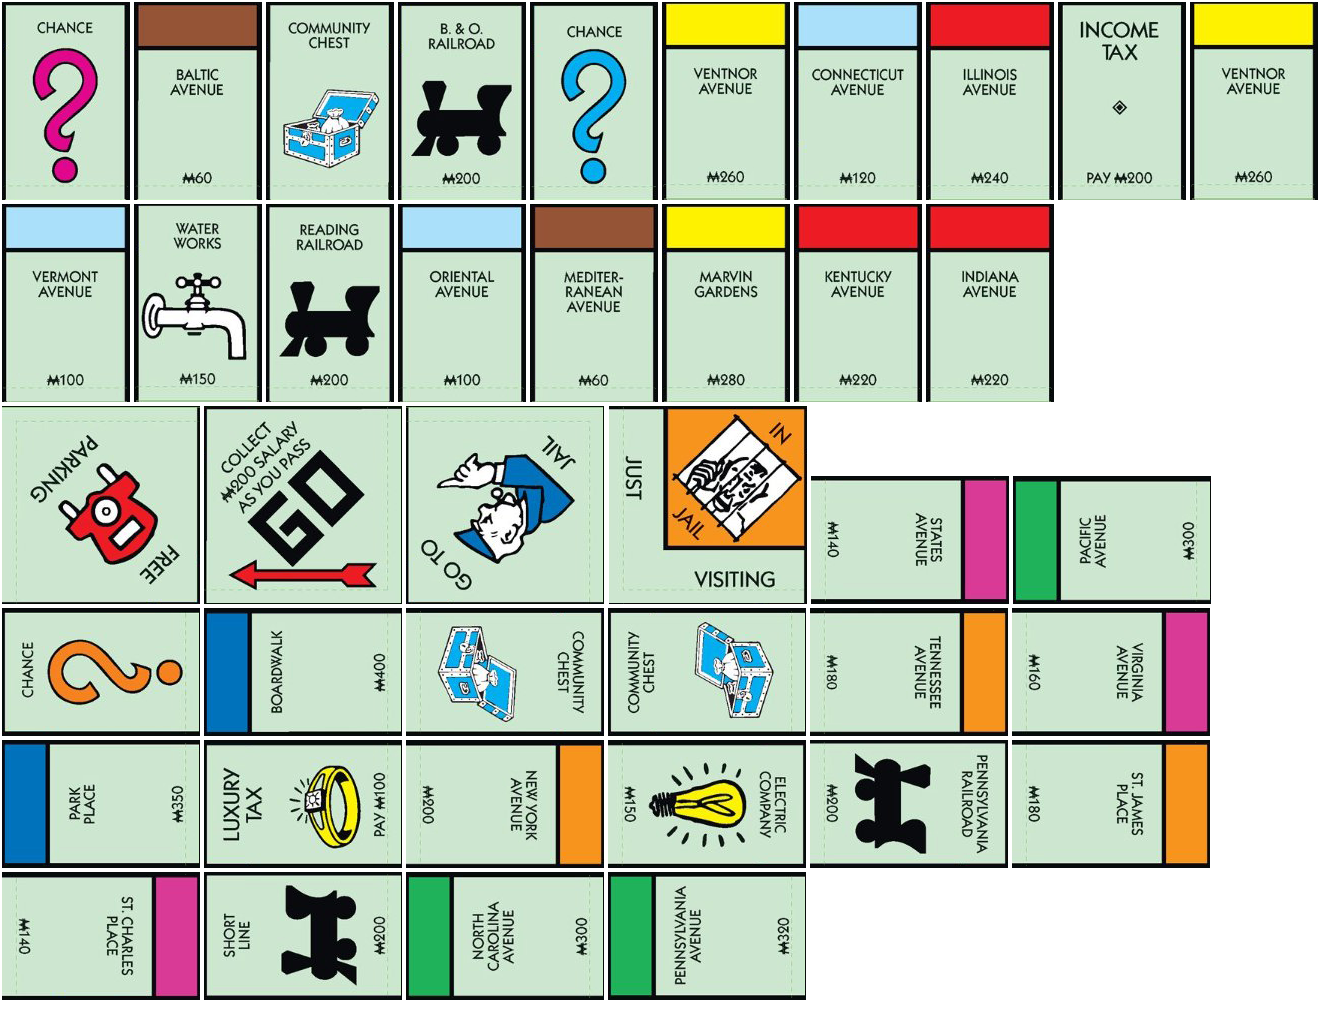
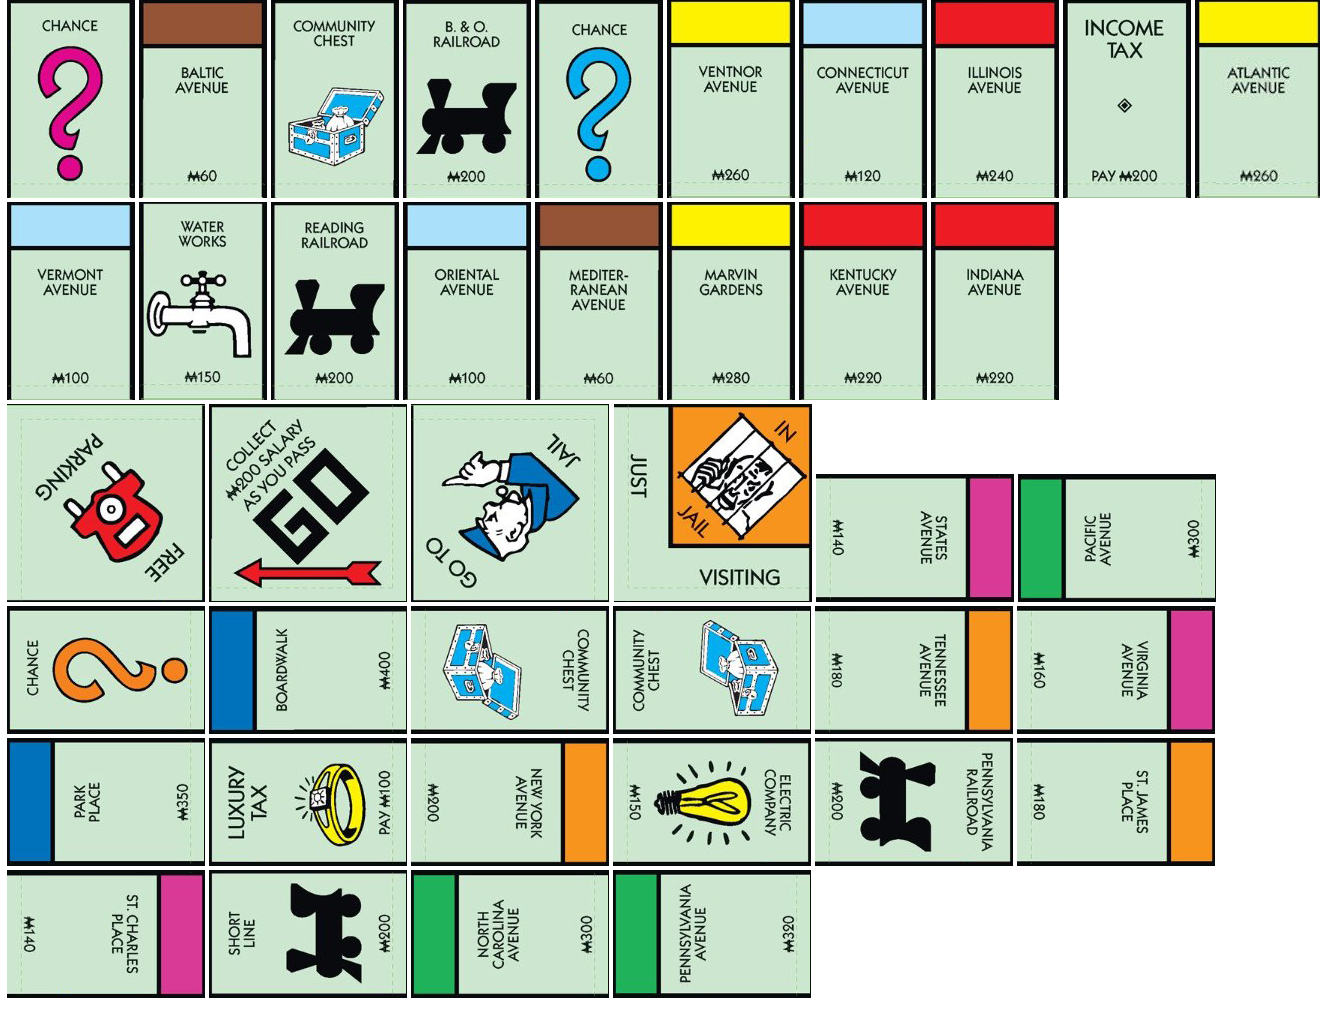
Correct board squares

Changed region(s): [[0.0, 0.0, 1.0, 1.0]]

diff --git a/Assets/Scripts/game/GameManager.cs b/Assets/Scripts/game/GameManager.cs
@@ -399,13 +399,14 @@ namespace Monopoly.Controller
             squareObj.transform.SetParent(instance.boardGameObj.transform);
             squareObj.name = string.Format("Square {0}", square.SquareIndex.ToString("D2"));
 
+            Transform bgTrans = boardGameObj.transform.Find("Background");
             Constants.Direction direction = Constants.Direction.DOWN;
             // start square, is GO square
             if (index == 0)
             {
                 //squareObj.GetComponent<SpriteRenderer>().sprite = cornerSquare;
                 squareObj.GetComponent<SpriteRenderer>().sprite = sprites[index];
-                float startX = boardGameObj.GetComponent<SpriteRenderer>().bounds.size.x -
+                float startX = bgTrans.GetComponent<SpriteRenderer>().bounds.size.x -
                     squareObj.GetComponent<SpriteRenderer>().bounds.size.x;
                 squareObj.transform.localPosition = new Vector3(startX, 0f, 0f);
             }
